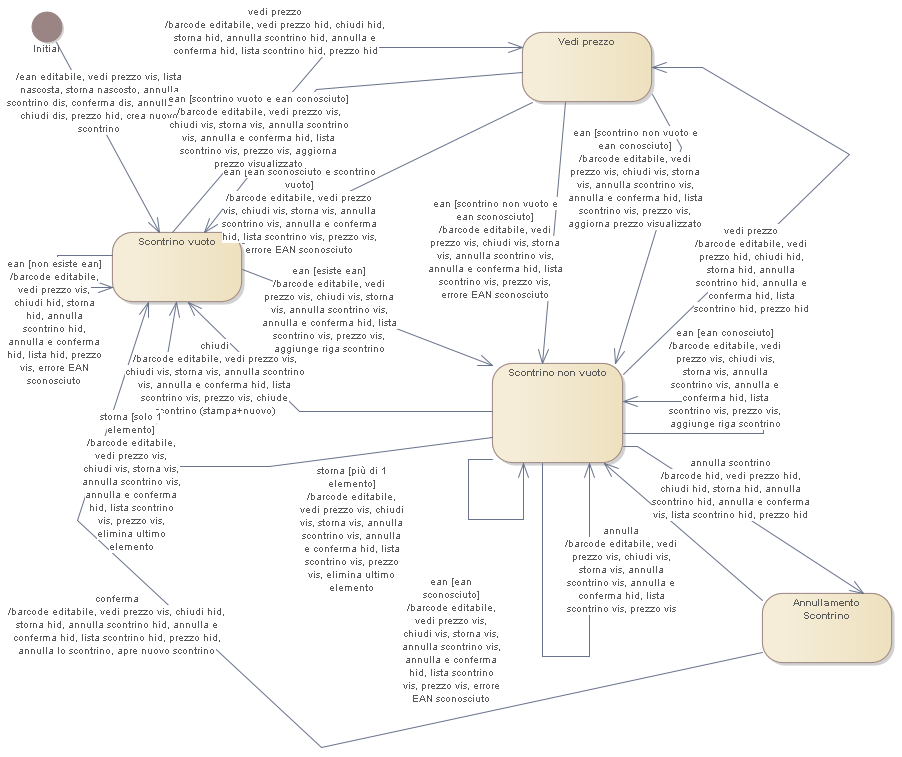
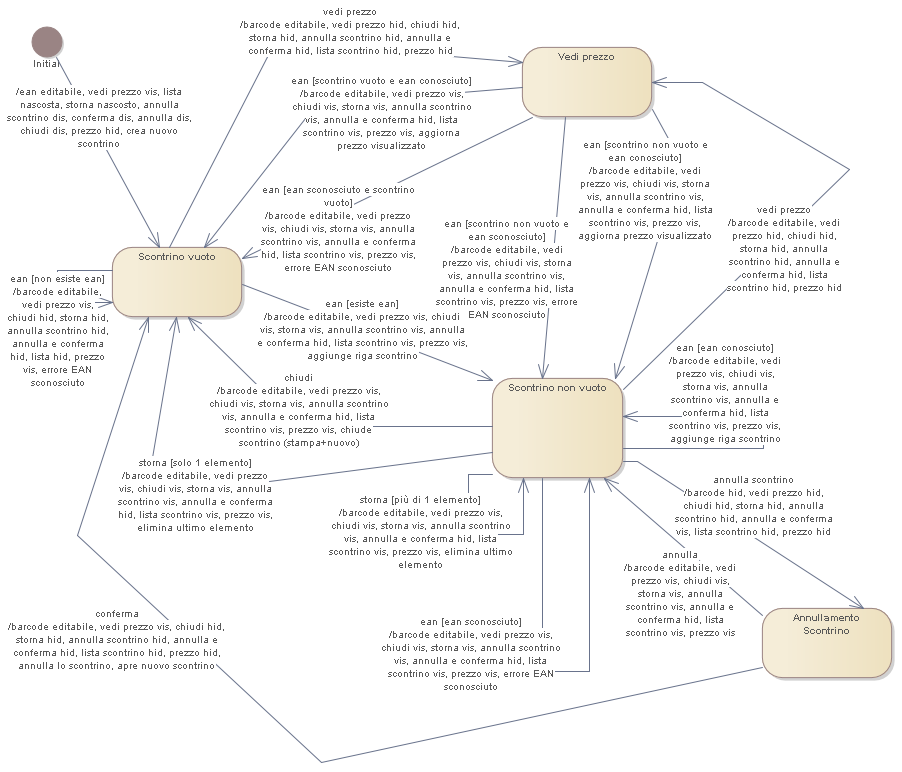
Aggiornato UML

diff --git a/UML/EARoot/EA1/EA2/EA31.htm b/UML/EARoot/EA1/EA2/EA31.htm
@@ -36,11 +36,11 @@ function nameClassifier(name, separator)
 <img src="EA32.png" usemap="#EA32" border="0" />
 
 <MAP NAME="EA32">
-<area shape="rect" coords="762,593,892,663" href="EA36.htm" target="_self">
-<area shape="rect" coords="492,363,623,463" href="EA49.htm" target="_self">
-<area shape="rect" coords="522,32,652,102" href="EA54.htm" target="_self">
-<area shape="rect" coords="112,232,242,302" href="EA50.htm" target="_self">
-<area shape="rect" coords="32,12,62,42" href="EA47.htm" target="_self">
+<area shape="rect" coords="762,608,892,678" href="EA36.htm" target="_self">
+<area shape="rect" coords="492,378,623,478" href="EA49.htm" target="_self">
+<area shape="rect" coords="522,47,652,117" href="EA54.htm" target="_self">
+<area shape="rect" coords="112,247,242,317" href="EA50.htm" target="_self">
+<area shape="rect" coords="32,27,62,57" href="EA47.htm" target="_self">
 </MAP>
 
 	<div class="ObjectTitle">Gestione cassa : StateMachine diagram</div>
@@ -51,7 +51,7 @@ function nameClassifier(name, separator)
 		</tr>
 		<tr>
 			<td width="15%" class="ObjectDetailsTopic">Modified:</td>
-			<td width="85%" class="ObjectDetailsValue">25/11/2019 15:51:37</td>
+			<td width="85%" class="ObjectDetailsValue">22/03/2021 10:55:12</td>
 		</tr>
 		<tr style="padding-top: 10px;">
 			<td width="15%" class="ObjectDetailsTopic"><img src="../../../images/plus03.gif" align="absmiddle" id="proj" onclick="parent.toggleData(this.id)" />Project:</td>

diff --git a/UML/EARoot/EA5/EA3/EA204.htm b/UML/EARoot/EA5/EA3/EA204.htm
@@ -60,7 +60,7 @@ function nameClassifier(name, separator)
 		</tr>
 		<tr>
 			<td width="15%" class="ObjectDetailsTopic">Modified:</td>
-			<td width="85%" class="ObjectDetailsValue">13/05/2019 10:16:37</td>
+			<td width="85%" class="ObjectDetailsValue">22/03/2021 10:55:12</td>
 		</tr>
 		<tr style="padding-top: 10px;">
 			<td width="15%" class="ObjectDetailsTopic"><img src="../../../images/plus03.gif" align="absmiddle" id="proj" onclick="parent.toggleData(this.id)" />Project:</td>

diff --git a/UML/index.htm b/UML/index.htm
@@ -6,7 +6,7 @@
 <link href="css/ea.css" rel="stylesheet" type="text/css" />
 <script language="JavaScript" src="js/displayToc.js" type="text/javascript"></script>
 </head>
-<body onload="initLoad(this,'toc.htm','./EARoot/EA5/EA1/EA173.htm')" onresize="resizePage()">
+<body onload="initLoad(this,'toc.htm','./EARoot/EA1/EA2/EA31.htm')" onresize="resizePage()">
 <div class="IndexTitle">
 	Scarsefour
 </div>
